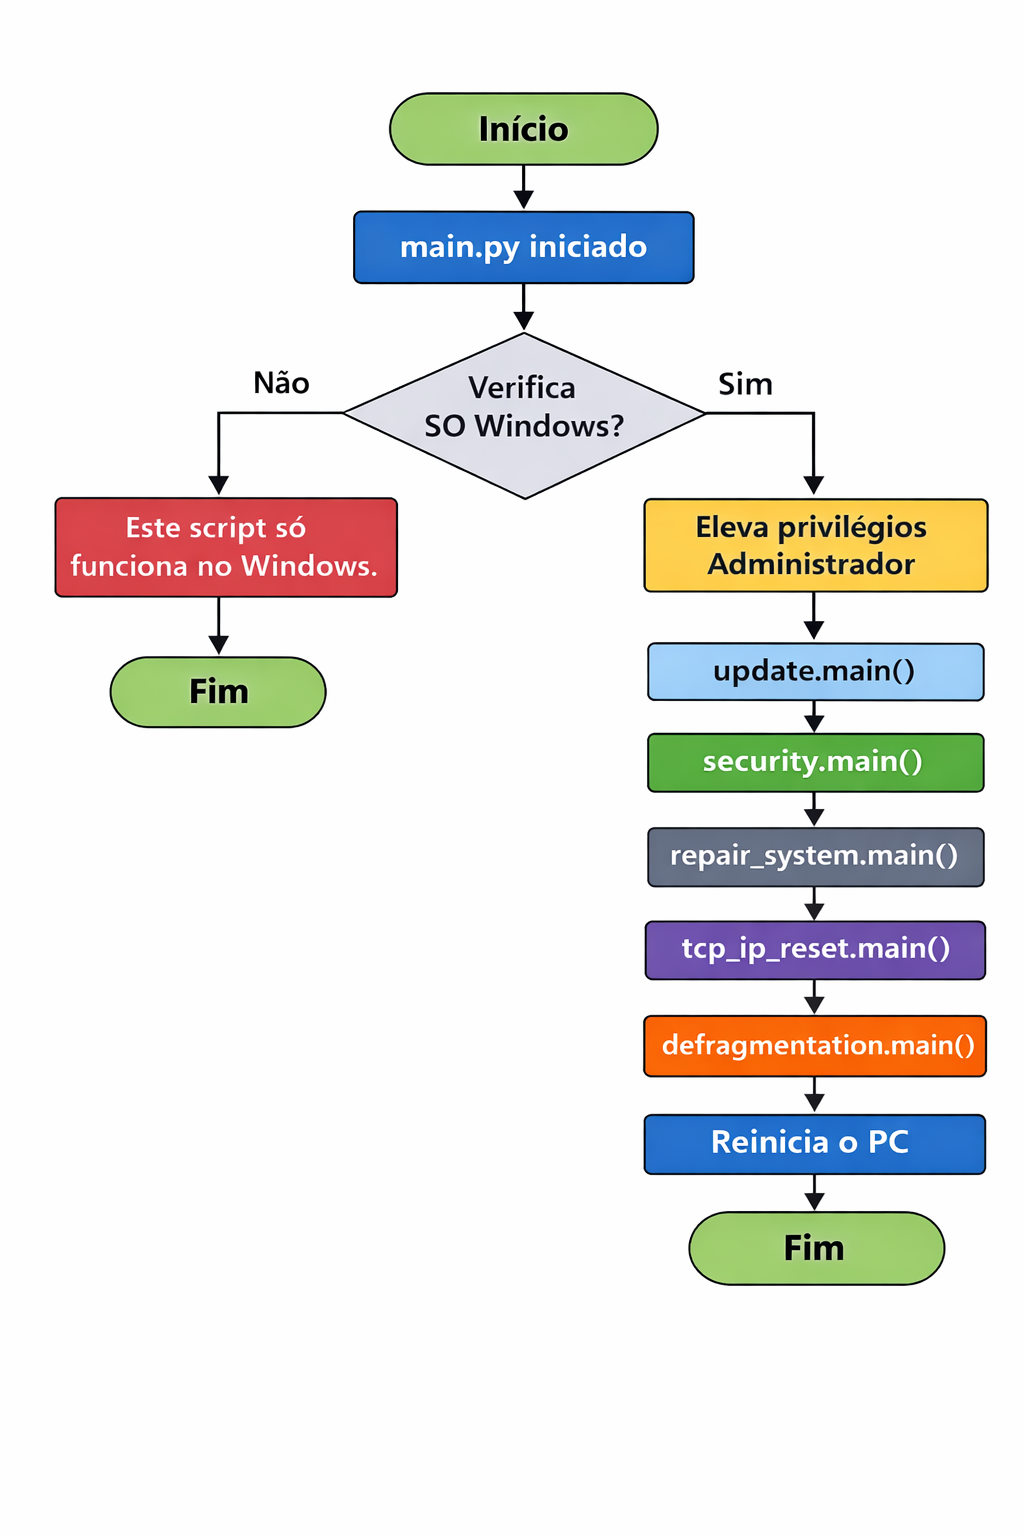
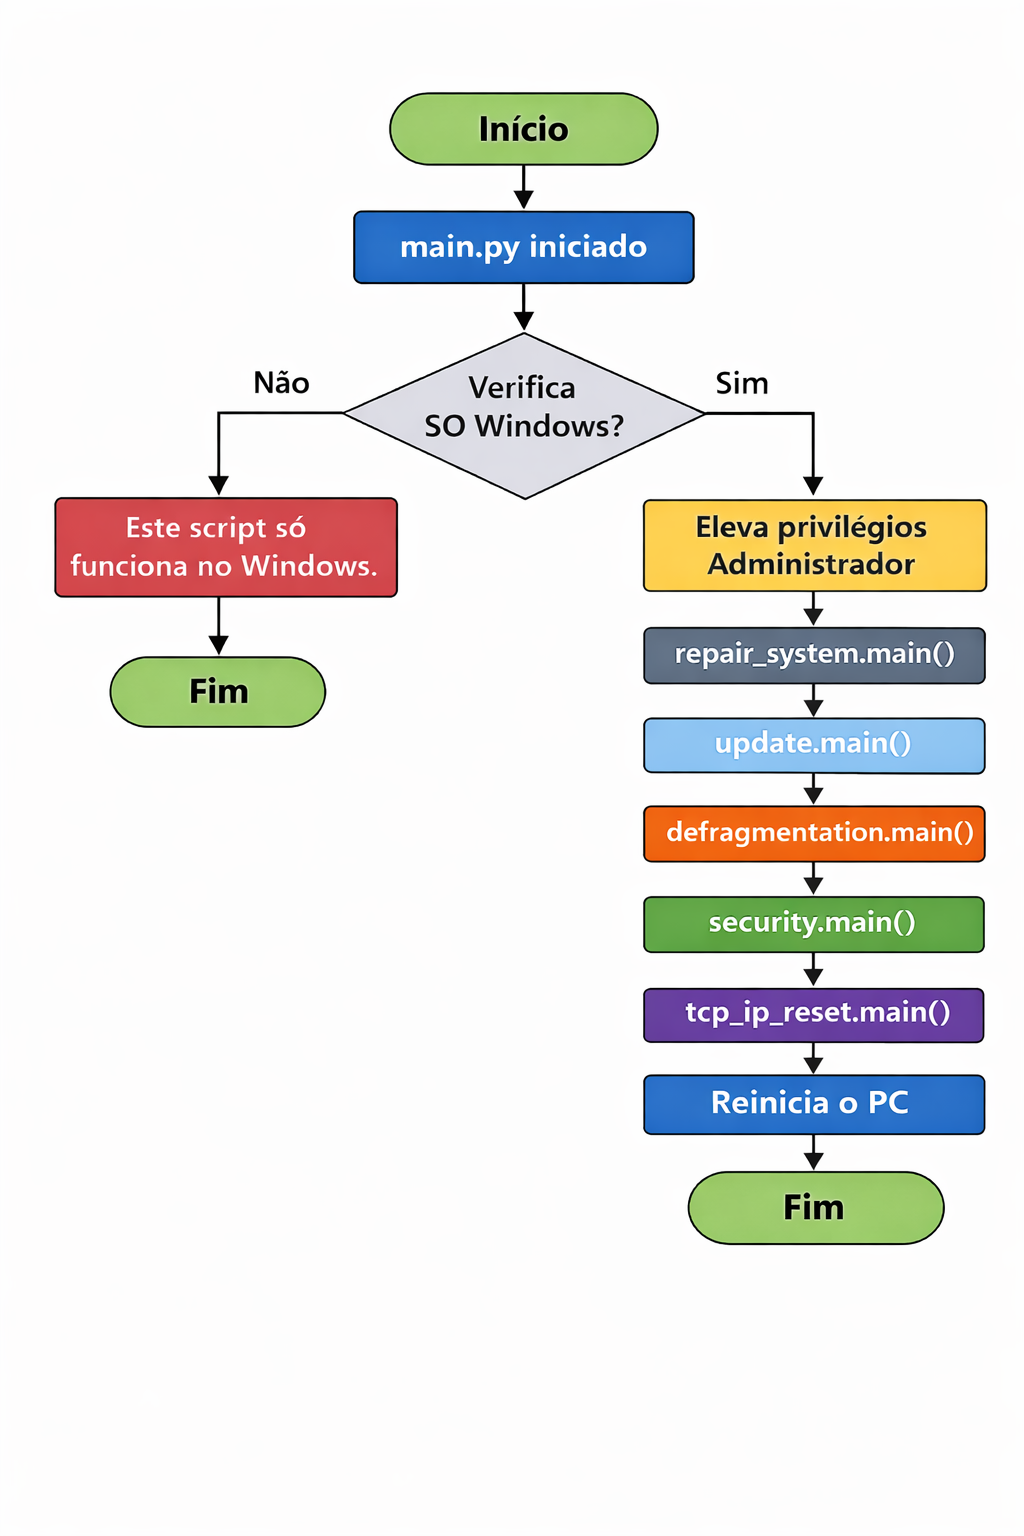
update

diff --git a/main.py b/main.py
@@ -7,6 +7,7 @@ import tcp_ip_reset
 import security
 import repair_system
 import subprocess
+import time
 
 ES_CONTINUOUS = 0x80000000
 ES_SYSTEM_REQUIRED = 0x00000001
@@ -61,12 +62,15 @@ def main():
     atexit.register(prevent_sleep_disable)
 
     try:
-        update.main()
-        security.main()
         repair_system.main()
-        tcp_ip_reset.main()
+        update.main()
         defragmentation.main()
+        security.main()
+        tcp_ip_reset.main()
         print("\n=== MANUTENÇÃO FINALIZADA ===\n")
+        time.sleep(5)
+        print("O computador será reiniciado em 10 segundos...")
+        time.sleep(10)
         offline_scan()
 
     finally:
@@ -74,3 +78,5 @@ def main():
 
 if __name__ == "__main__":
     main()
+
+    

diff --git a/security.py b/security.py
@@ -42,9 +42,6 @@ def main():
        update_data()
        quickscan()
        mrt()
-       time.sleep(5)
-       print("O computador será reiniciado em 10 segundos...")
-       time.sleep(10)
-        
+              
 if __name__ == "__main__":
     main()
